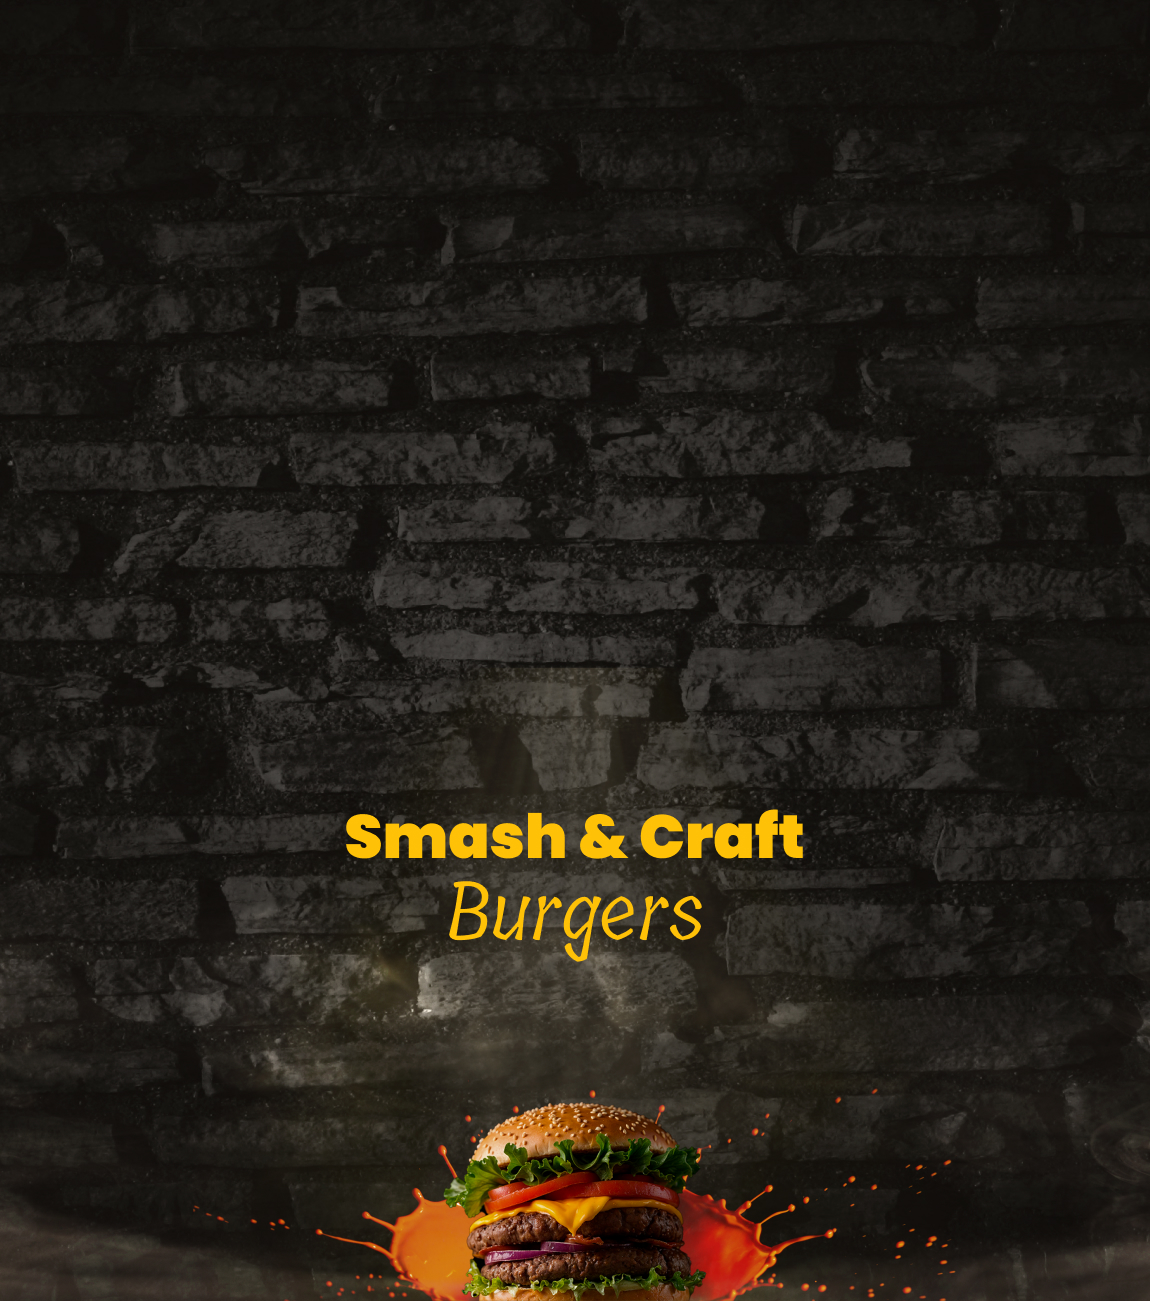
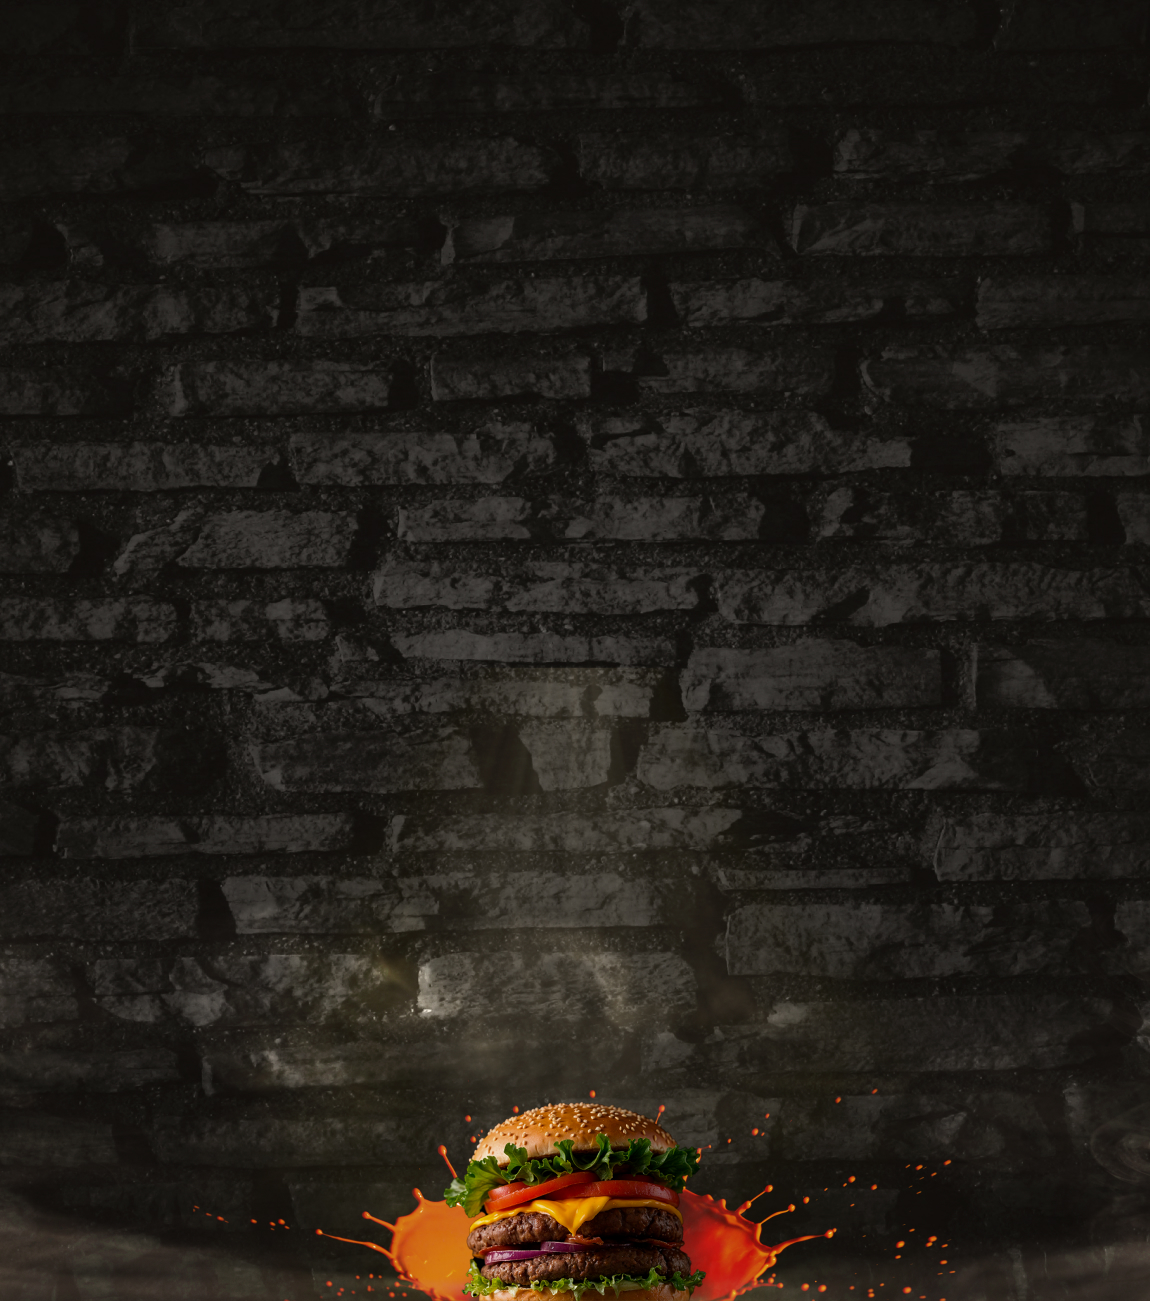
att responsive 27/nov/2024

Changed region(s): [[0.3043, 0.6149, 0.7, 0.7379]]

diff --git a/css/responsive.css b/css/responsive.css
@@ -14,9 +14,15 @@
         background-size: cover;
     }
 
+    .logo-principal {
+        padding-bottom: 15em;
+        padding-top: 2em;
+    }
+
     .nav-bar {
         flex-direction: column-reverse;
         padding: 0;
+        gap: 2em;
     }
 
     .nav {
@@ -269,11 +275,18 @@
     .background-principal {
         background: var(--preto) url("../imagens/background-768p.jpg") no-repeat bottom center;
         background-size: cover;
+
+        height: max-content;
+    }
+
+    .logo-principal {
+        padding-bottom: 15em;
     }
 
     .nav-bar {
         flex-direction: column-reverse;
         padding: 0;
+        gap: 1em;
     }
 
     .nav {
@@ -288,7 +301,6 @@
 
     #link-reserve {
         font-size: 2.5em;
-        padding-top: 1em;
         display: flex;
         justify-content: center;
     }
@@ -316,8 +328,8 @@
     .img-cta {
         height: 20em;
         width: 20em;
-        bottom: -5em;
-        right: -5em;
+        bottom: -2em;
+        right: -4em;
     }
 
     .chamada-cta {
@@ -509,7 +521,27 @@
 
 }
 
+@media screen and (min-width: 481px) and (max-width: 950px) {
+    .background-principal {
+        height: max-content;
+    }
+
+    #link-reserve {
+        padding-bottom: 1em;
+        font-size: 1.5em;
+    }
+
+    .nav-bar {
+        padding: 0;
+    }
+}
+
 @media screen and (min-width: 769px) and (max-width: 1280px) {
+    
+    .logo-principal {
+        padding-bottom: 15em;
+    }
+    
     /* SECTION CTA*/
 
     .cta {
@@ -605,15 +637,20 @@
     }
 }
 
-@media screen and (min-width: 950px) and (max-width: 1280px) {
+@media screen and (min-width: 951px) and (max-width: 1279px) {
     
     .nav-bar {
-        padding: 4em 7em;
+        padding: 4em 4em;
+        gap: 10em;
     }
 
     nav ul {
         font-size: 1.5em;
         gap: 0.5em;
+    }
+
+    .logo-principal {
+        padding-bottom: 15em;
     }
 
     #link-reserve {
@@ -656,6 +693,7 @@
     .nav-bar {
         flex-direction: column-reverse;
         padding: 0;
+        gap: 3em;
     }
 
     .nav {
@@ -670,7 +708,6 @@
 
     #link-reserve {
         font-size: 2.7em;
-        padding-top: 1em;
         display: flex;
         justify-content: center;
     }
@@ -717,9 +754,17 @@
     }
 }
 
-@media screen and (min-width: 1281px) and (max-width: 1554px) {
+@media screen and (min-width: 1280px) and (max-width: 1554px) {
 
-     /* SECTION PRINCIPAL*/
+    .nav-bar {
+        gap: 10em;
+    }
+   
+    nav ul {
+        gap: 0.5em;
+    } 
+    
+    /* SECTION PRINCIPAL*/
 
      .cta {
         height: max-content;
@@ -796,4 +841,13 @@
         font-size: 1.5em;
         padding-left: 2rem;
     }
+}
+
+@media screen and (min-width: 1555px) and (max-width: 1826px) {
+    .nav-bar {
+        gap: 20em;
+    }
+
+    .locali {
+        padding: 5em;
 }

diff --git a/css/style.css b/css/style.css
@@ -16,16 +16,13 @@
 .nav-bar {
     display: flex;
     padding: 4em 10em;
+    gap: 45em;
 }
 
 #link-reserve {
     font: 1.81em Tillana-ExtraBold, sans-serif;
     color: var(--amarelo);
     text-decoration: none;
-}
-
-.nav {
-    margin-left: auto;
 }
 
 nav ul {
@@ -50,8 +47,21 @@ li a:hover {
     background: var(--preto) url("../imagens/background.jpg") no-repeat bottom center;
     background-size: cover;
     max-width: 100%;
-    height: 100vh;
+    height: max-content;
     color: var(--amarelo);
+    display: flex;
+    flex-direction: column;
+    align-items: center;
+}
+
+.logo-principal {
+    display: flex;
+    justify-content: center;
+    padding-bottom: 30em;
+}
+
+.logo-principal img {
+    width: 60%;
 }
 
 
@@ -59,7 +69,7 @@ li a:hover {
 
 .cta {
     background-color: var(--preto);
-    height: 100vh;
+    height: max-content;
     width: 100%;
     position: relative;
     overflow: hidden;
@@ -96,6 +106,7 @@ li a:hover {
 
 .chamada-cta {
     padding-top: 2%;
+    padding-bottom: 5em;
     display: flex;
     flex-direction: column;
     justify-content: space-around;

diff --git a/index.html b/index.html
@@ -31,6 +31,8 @@
                     </nav>
                 </div>
             </div>
+
+            <div class="logo-principal"><img src="imagens/logo-pincipal.png" alt=""></div>
         </div>
     </section>
 
